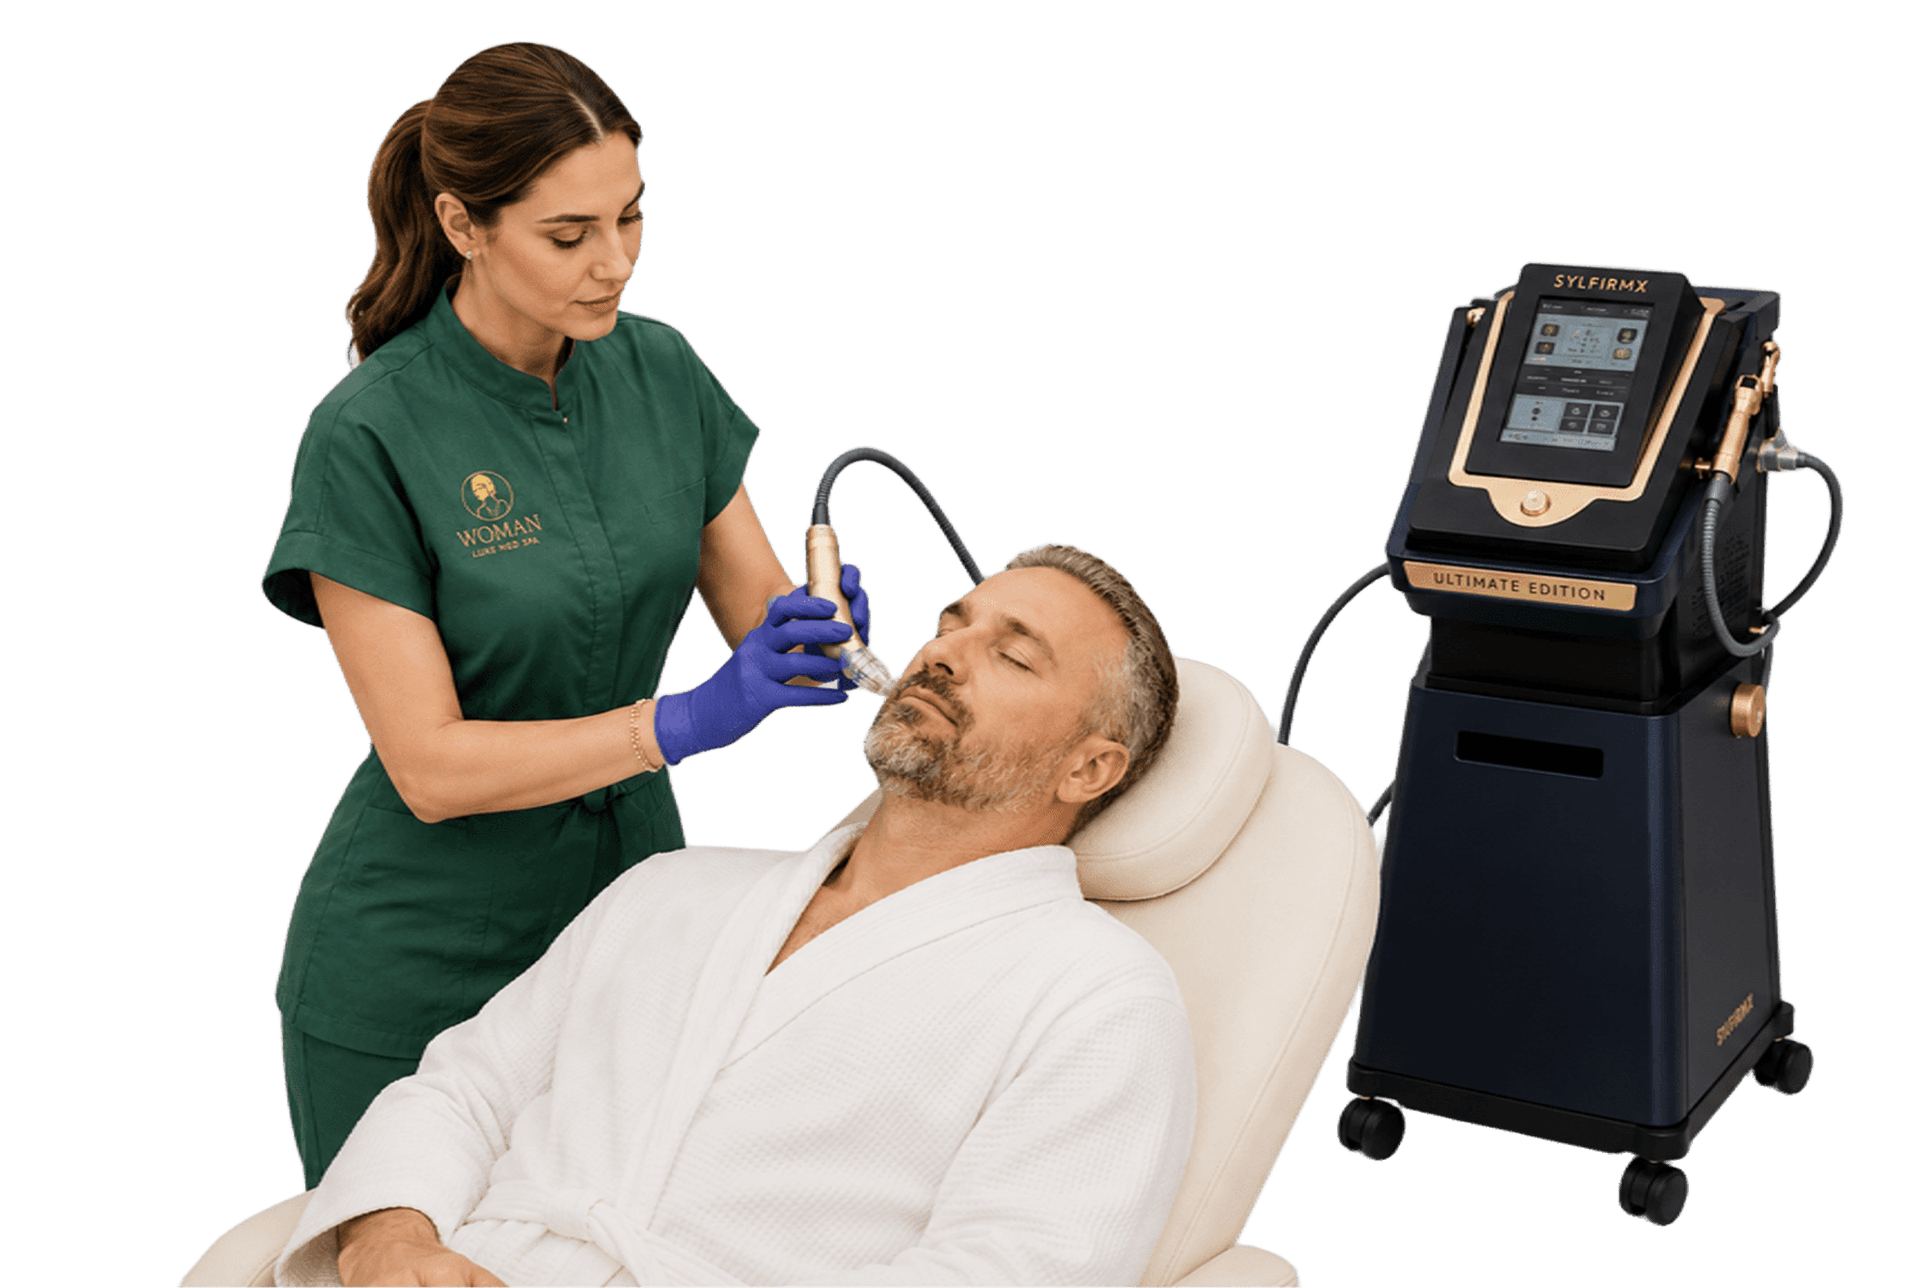
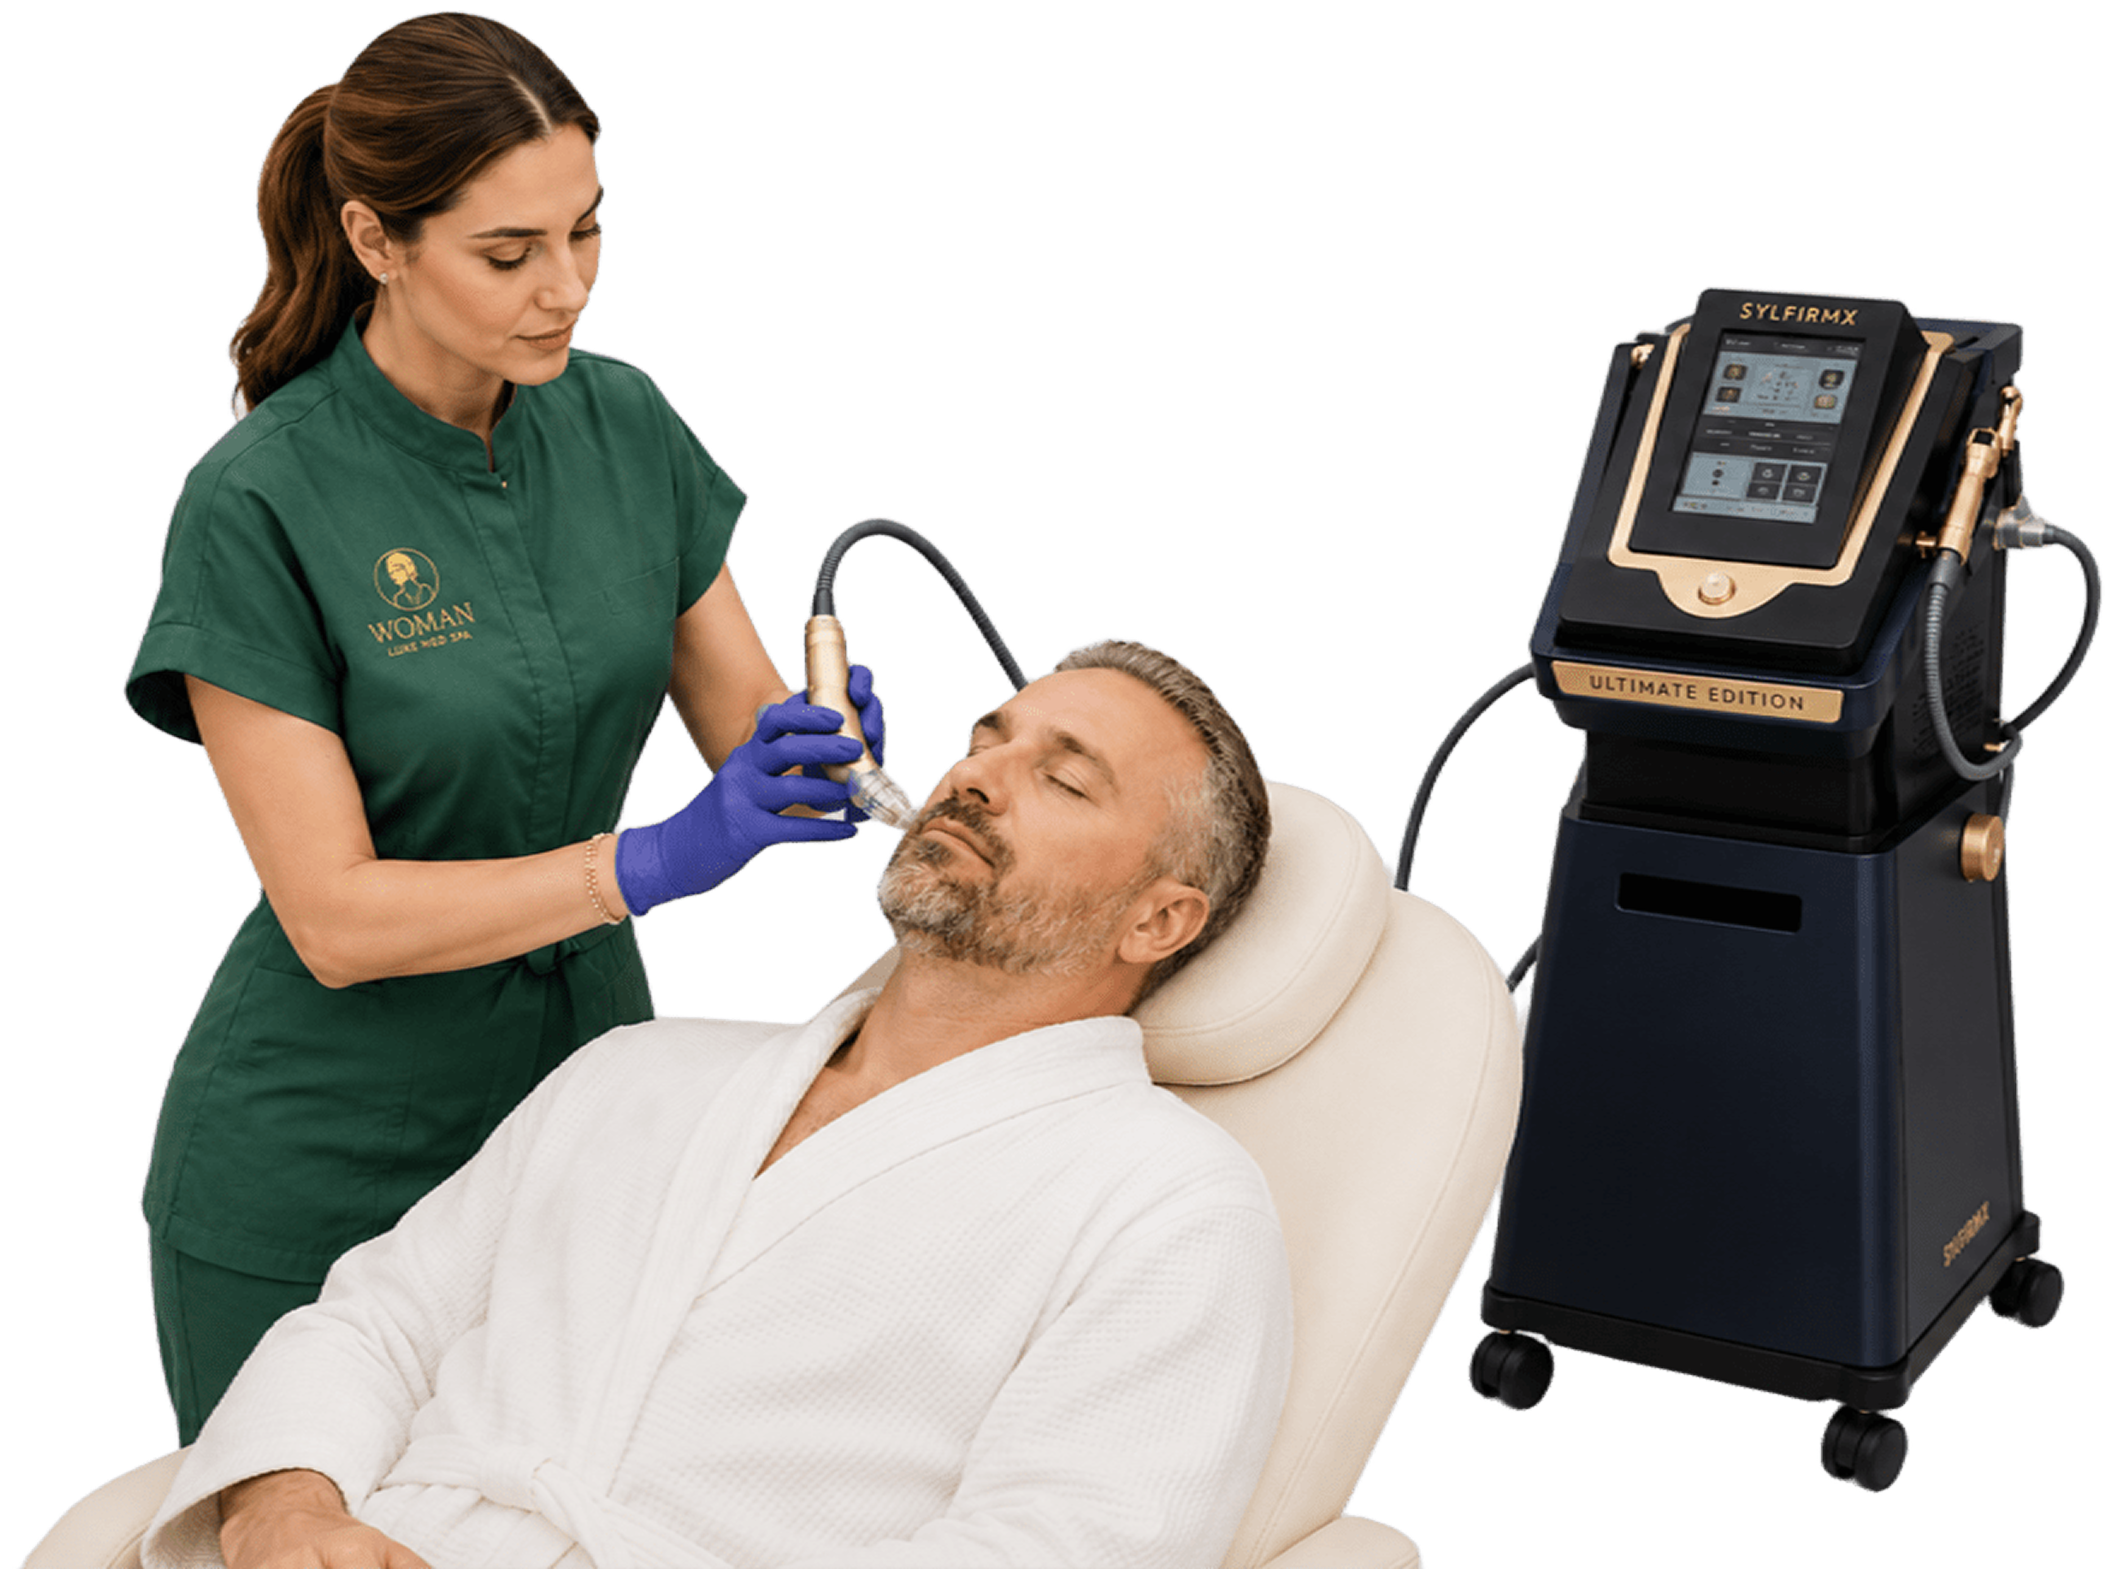
fix(image): on sylfirm in candidate section

diff --git a/src/components/SylfirmCandidate.tsx b/src/components/SylfirmCandidate.tsx
@@ -68,11 +68,12 @@ export default function SylfirmCandidate() {
       <div className="relative z-10 mt-8 w-full">
         <FadeIn as="div" y={30}>
           <Image
-            src="/sylfirm-candidate.webp"
+            src="/sylfirm-candidate.png"
             alt={t("SylfirmX ideal candidate")}
-            width={2400}
-            height={1350}
-            className="w-full h-auto rounded-[30px]"
+            width={1211}
+            height={894}
+            quiality={100}
+            className="rounded-[30px] mx-auto"
           />
         </FadeIn>
       </div>
